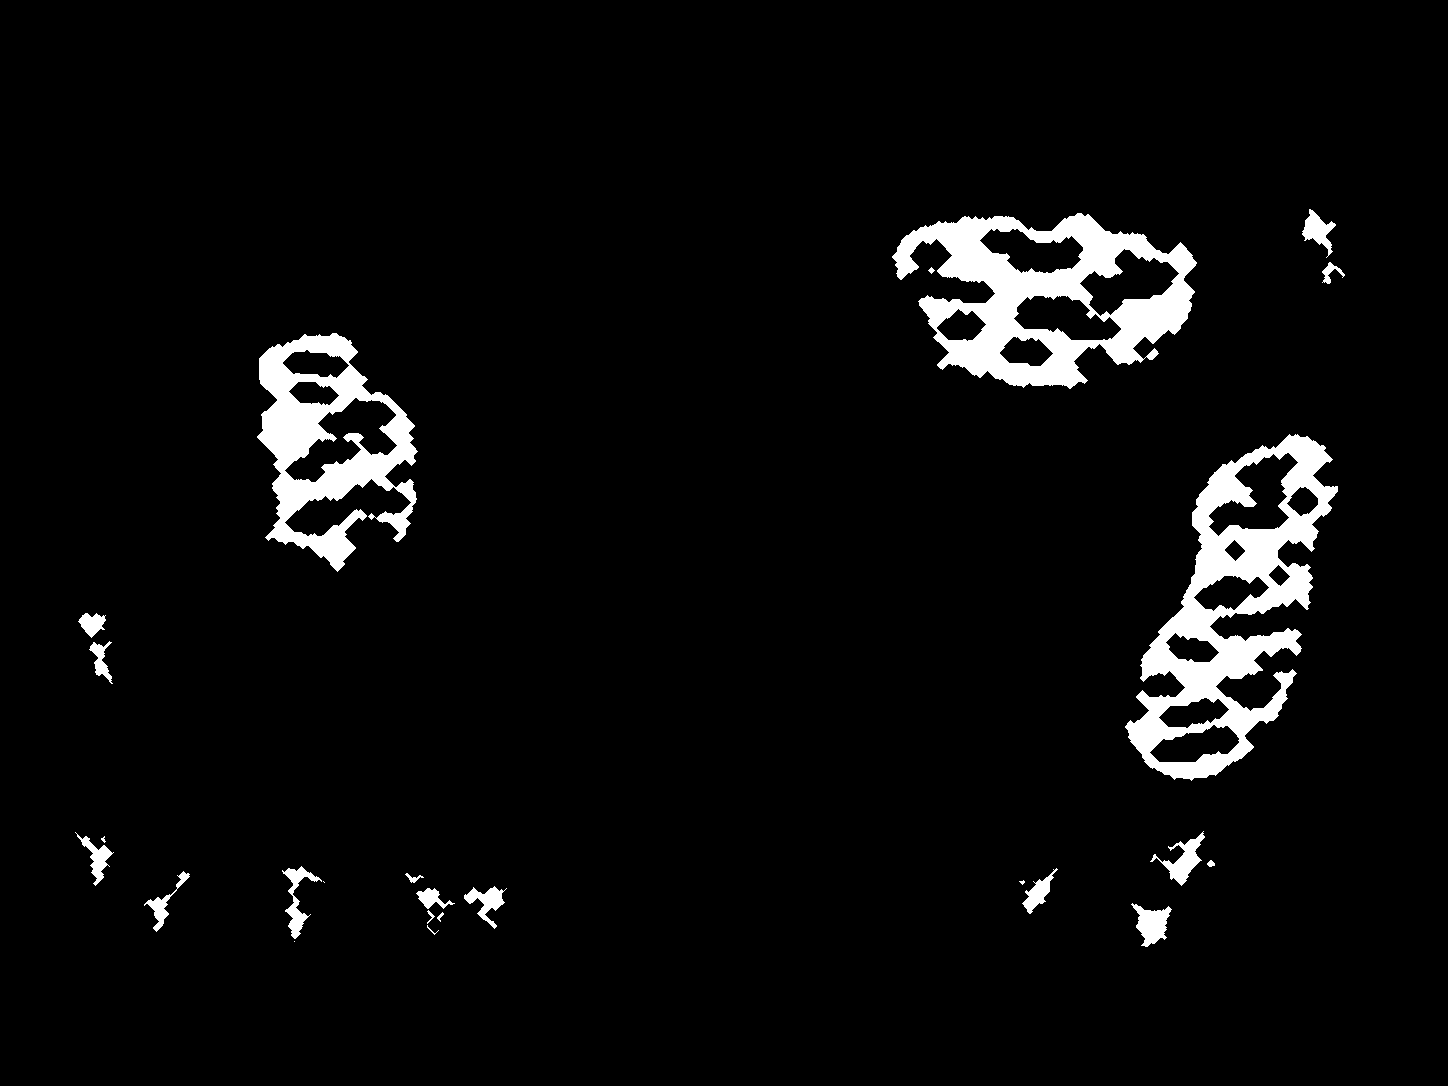
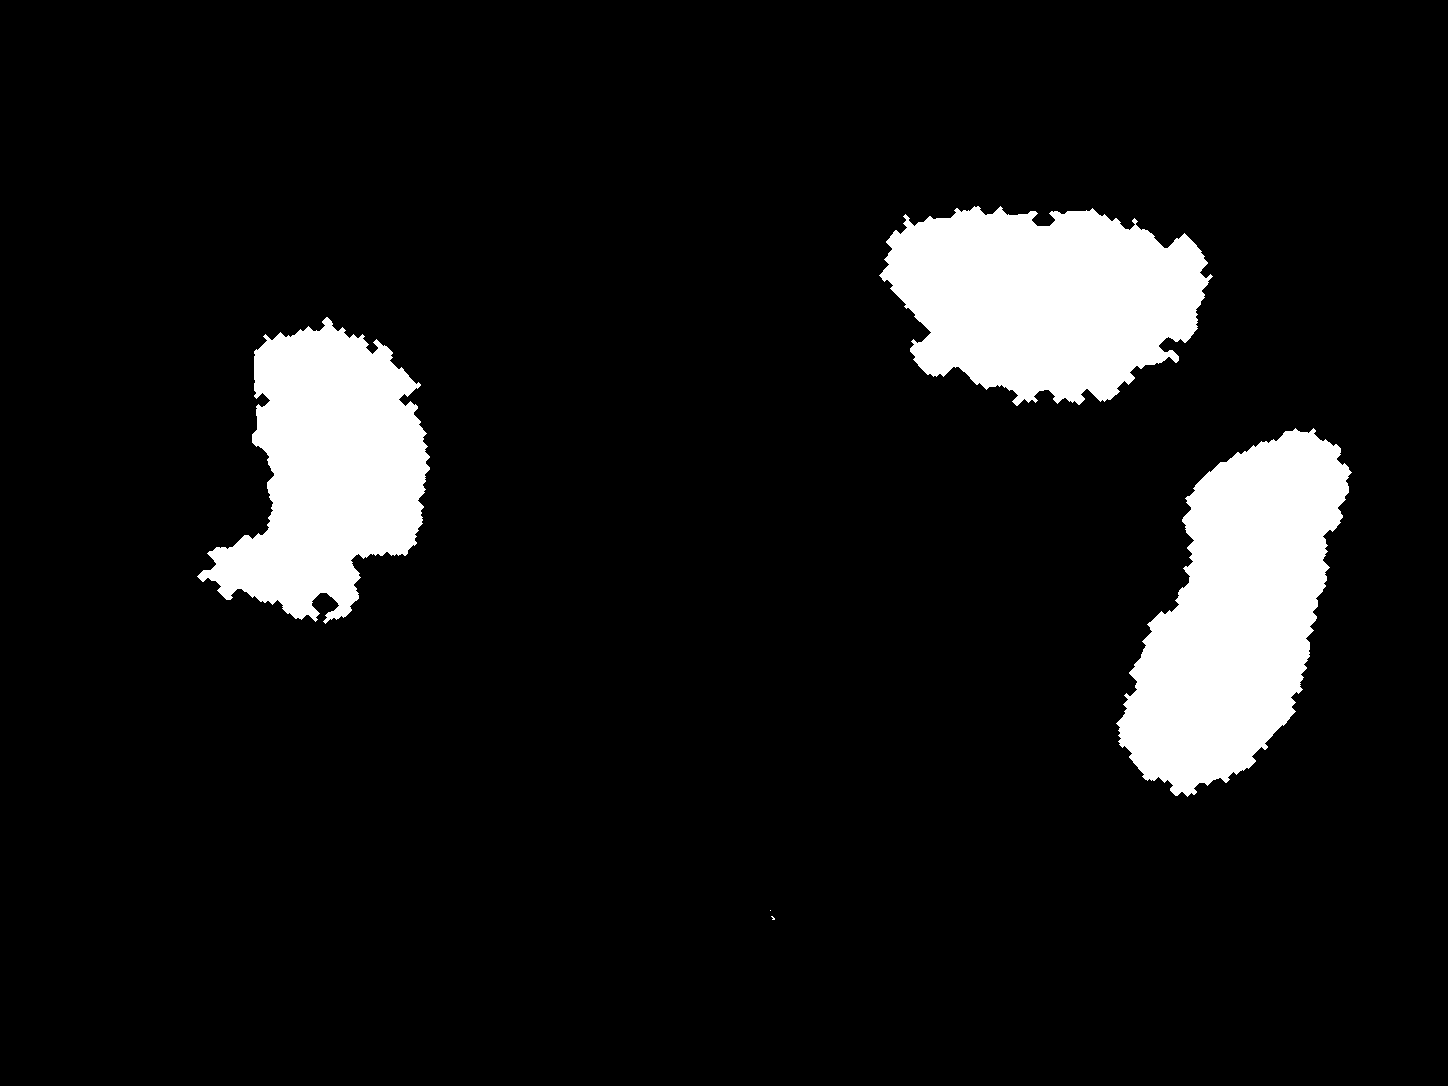
Walkable swamps and flowers, bigger interior with loft access
Collision: detect a "meadow envelope" by filling holes in the largest
grass component, and only keep swamp blobs that lie inside it — pine
trees with cool-green canopies in the forest border are now correctly
excluded. After morphology, swamp pixels are OR'd back into walkable
so the swamp interior is guaranteed collision-free. A final speck-fill
pass turns every non-border-touching blocked component smaller than
1500 px (flowers, dark grass tufts) into walkable.

Water mask reuses the same swamp blob, so the swim animation activates
exactly where the player can walk on water — no path-stone false
positives. The runtime swim check now samples the entire hitbox
against the water mask, not just the center, so stepping a foot into
a swamp is enough.

Indoor: the room is now navigable on three levels — lower floor,
diagonal staircase corridor, and the loft. Walkable area uses a
MultiRectWalk that unions axis-aligned rectangles, with rectangle
overlaps wider than the player's hitbox so transitions between
levels work cleanly.

diff --git a/src/lib/game/Game.ts b/src/lib/game/Game.ts
@@ -32,26 +32,29 @@ type Scene = {
   water?: CollisionMask;
   /** Optional pre-rendered collision overlay (outdoor mask). */
   debugOverlay?: HTMLImageElement;
-  /** Optional walkable rect to outline in debug mode (indoor floor). */
-  debugRect?: { x0: number; y0: number; x1: number; y1: number };
+  /** Optional walkable rects to outline in debug mode (indoor floor). */
+  debugRects?: Rect[];
   triggers: Trigger[];
 };
 
-/** Walkable area defined as a single axis-aligned rectangle. */
-class RectWalk implements WalkChecker {
-  constructor(
-    public x0: number,
-    public y0: number,
-    public x1: number,
-    public y1: number
-  ) {}
+type Rect = { x0: number; y0: number; x1: number; y1: number };
+
+/** Walkable area defined as the union of axis-aligned rectangles. The
+ * player's hitbox must fit entirely inside *at least one* rectangle. */
+class MultiRectWalk implements WalkChecker {
+  constructor(public rects: Rect[]) {}
   isRectWalkable(cx: number, cy: number, halfW: number, halfH: number): boolean {
-    return (
-      cx - halfW >= this.x0 &&
-      cx + halfW <= this.x1 &&
-      cy - halfH >= this.y0 &&
-      cy + halfH <= this.y1
-    );
+    for (const r of this.rects) {
+      if (
+        cx - halfW >= r.x0 &&
+        cx + halfW <= r.x1 &&
+        cy - halfH >= r.y0 &&
+        cy + halfH <= r.y1
+      ) {
+        return true;
+      }
+    }
+    return false;
   }
 }
 
@@ -111,14 +114,24 @@ export class Game {
       ]
     };
 
+    const indoorRects: Rect[] = [
+      // Lower floor — the wooden plank floor across the bottom of the room.
+      { x0: 150, y0: 880, x1: 1280, y1: 1010 },
+      // Staircase — diagonal corridor from the floor up to the loft. Top
+      // and bottom intentionally extend ~30 px past the visible step
+      // boundary so the player's 24-px-tall hitbox has room to traverse
+      // into the floor and loft rectangles below/above.
+      { x0: 800, y0: 300, x1: 990, y1: 930 },
+      // Loft floor — the upper level where the bed and side table are.
+      { x0: 120, y0: 280, x1: 920, y1: 360 },
+    ];
     const indoor: Scene = {
       name: 'indoor',
       background: bgIndoor,
       worldW: bgIndoor.naturalWidth,
       worldH: bgIndoor.naturalHeight,
-      // Walkable strip along the wooden floor between the kitchen plant and the cauldron.
-      walkable: new RectWalk(200, 920, 1000, 1010),
-      debugRect: { x0: 200, y0: 920, x1: 1000, y1: 1010 },
+      walkable: new MultiRectWalk(indoorRects),
+      debugRects: indoorRects,
       triggers: [
         {
           // Exit zone centered on the rug — implied front door of the house.
@@ -207,9 +220,12 @@ export class Game {
     this.player.update(dt, this.input.state, this.currentScene.walkable);
     this.camera.follow(this.player.x, this.player.y);
 
-    // Swim state: true while the player's center is on a pond/swamp pixel.
+    // Swim state: true while any pixel of the player's hitbox overlaps a
+    // pond/swamp pixel — stepping a foot into water is enough.
     const w = this.currentScene.water;
-    this.player.isSwimming = w ? w.isWalkable(this.player.x, this.player.y) : false;
+    this.player.isSwimming = w
+      ? w.intersectsRect(this.player.x, this.player.y, this.player.halfW, this.player.halfH)
+      : false;
 
     this.activeTrigger = this.findTriggerAtPlayer();
     if (this.activeTrigger && this.input.consumeActionPress()) {
@@ -247,15 +263,17 @@ export class Game {
         );
         ctx.globalAlpha = 1;
       }
-      if (scene.debugRect) {
+      if (scene.debugRects) {
         ctx.strokeStyle = '#33ff77';
         ctx.lineWidth = 1;
-        ctx.strokeRect(
-          scene.debugRect.x0 - cam.x,
-          scene.debugRect.y0 - cam.y,
-          scene.debugRect.x1 - scene.debugRect.x0,
-          scene.debugRect.y1 - scene.debugRect.y0
-        );
+        for (const r of scene.debugRects) {
+          ctx.strokeRect(
+            r.x0 - cam.x,
+            r.y0 - cam.y,
+            r.x1 - r.x0,
+            r.y1 - r.y0
+          );
+        }
       }
       // Trigger boxes (yellow).
       ctx.strokeStyle = '#ffd24a';

diff --git a/src/lib/game/CollisionMask.ts b/src/lib/game/CollisionMask.ts
@@ -39,6 +39,35 @@ export class CollisionMask {
   }
 
   /**
+   * Test whether *any* pixel of the given axis-aligned rectangle is set in
+   * the mask (i.e. "walkable" in the mask's internal terminology). Used by
+   * the runtime to ask the water mask "does the player's hitbox overlap the
+   * pond at all?" — even one overlapping pixel triggers swimming.
+   */
+  intersectsRect(cx: number, cy: number, halfW: number, halfH: number): boolean {
+    const step = 4;
+    const x0 = Math.floor(cx - halfW);
+    const x1 = Math.ceil(cx + halfW);
+    const y0 = Math.floor(cy - halfH);
+    const y1 = Math.ceil(cy + halfH);
+    if (
+      this.isWalkable(x0, y0) ||
+      this.isWalkable(x1 - 1, y0) ||
+      this.isWalkable(x0, y1 - 1) ||
+      this.isWalkable(x1 - 1, y1 - 1) ||
+      this.isWalkable((x0 + x1) >> 1, (y0 + y1) >> 1)
+    ) {
+      return true;
+    }
+    for (let y = y0; y < y1; y += step) {
+      for (let x = x0; x < x1; x += step) {
+        if (this.isWalkable(x, y)) return true;
+      }
+    }
+    return false;
+  }
+
+  /**
    * Test an axis-aligned rectangle against the mask. Returns true if every
    * pixel in the rectangle is walkable. We sample on a coarse grid for speed,
    * which is fine because the player's hitbox is small and the mask was

diff --git a/scripts/build_assets.py b/scripts/build_assets.py
@@ -147,8 +147,11 @@ def build_collision_mask():
     is_grass = (
         (g >= 130) & (r >= 90) & (b <= 70) & (g > r) & (g > b + 60)
     )
-    is_pond = (
-        (g >= 115) & (g > r) & (luminance >= 70) & (luminance <= 145)
+    # Strict pond/swamp colour: cool greens that aren't found in path stones.
+    # `g > r + 45` keeps every pond/bush sample (G-R 65-99) and excludes
+    # neutral path stones (G-R 11-36).
+    is_water_seed = (
+        (g >= 115) & (g > r + 45) & (luminance >= 70) & (luminance <= 145)
     )
     is_stone = (
         (luminance >= 95) & (luminance <= 165)
@@ -157,9 +160,50 @@ def build_collision_mask():
         & (g >= 100)
     )
 
-    walkable = is_grass | is_pond | is_stone
+    from scipy.ndimage import (
+        binary_closing,
+        binary_dilation,
+        binary_erosion,
+        binary_fill_holes,
+        binary_opening,
+        label,
+    )
 
-    from scipy.ndimage import binary_closing, binary_opening, binary_erosion, binary_dilation, label
+    # Build a solid swamp/pond blob from the seed pixels: close hairline gaps
+    # along the shoreline so the boundary is continuous, then fill every
+    # interior hole. Without this step the rocks, dark water and highlight
+    # pixels inside a pond fail every walkable detector and the player's
+    # hitbox can't fit anywhere inside the swamp.
+    swamp = binary_closing(is_water_seed, iterations=5)
+    swamp = binary_fill_holes(swamp)
+    swamp = binary_opening(swamp, iterations=2)
+    # Drop tiny stray fragments far from the real swamps (scattered green
+    # specks at the forest edge, etc.).
+    swamp_labels, swamp_n = label(swamp)
+    if swamp_n > 0:
+        ssizes = np.bincount(swamp_labels.ravel())
+        ssizes[0] = 0
+        keep = ssizes >= 1500
+        swamp = keep[swamp_labels]
+
+    # Build the "meadow envelope" — the area fully enclosed by the main
+    # grass region (so it covers grass + any interior obstacles + the real
+    # swamps, but stops at the forest). Then drop every swamp blob that
+    # lies outside the envelope. Without this filter, isolated pine trees
+    # in the forest border (whose dark canopies pass the cool-green
+    # detector) survive into `swamp` and the later "force walkable" step
+    # would carve tree-shaped holes through the forest.
+    grass_labels, grass_n = label(is_grass)
+    if grass_n > 0:
+        gsz = np.bincount(grass_labels.ravel())
+        gsz[0] = 0
+        main_grass = grass_labels == int(np.argmax(gsz))
+    else:
+        main_grass = np.zeros_like(is_grass)
+    meadow_envelope = binary_fill_holes(main_grass)
+    swamp = swamp & meadow_envelope
+
+    walkable = is_grass | swamp | is_stone
 
     walkable = binary_opening(walkable, iterations=2)
     walkable = binary_closing(walkable, iterations=4)
@@ -176,6 +220,35 @@ def build_collision_mask():
 
     walkable = binary_erosion(walkable, iterations=3)
 
+    # The swamp interior must be completely free of collision. Regardless of
+    # what the morphology pipeline did to its boundary, force every pixel
+    # inside the closed swamp blob to be walkable.
+    walkable = walkable | swamp
+
+    # Fill small enclosed "flower" pockets inside the meadow — clusters of
+    # dark grass / flower pixels that fail every walkable detector but are
+    # too small to be real obstacles. Anything that touches the image
+    # border (the forest) or is bigger than `speck_max` (houses, hut, dead
+    # tree, etc.) stays blocked. The real structures are all 2000+ px so
+    # 1500 is a comfortable cutoff.
+    speck_max = 1500
+    hole_labels, n_holes = label(~walkable)
+    if n_holes > 0:
+        hole_sizes = np.bincount(hole_labels.ravel())
+        border_ids: set[int] = set()
+        for edge in (
+            hole_labels[0],
+            hole_labels[-1],
+            hole_labels[:, 0],
+            hole_labels[:, -1],
+        ):
+            border_ids.update(int(v) for v in np.unique(edge))
+        fill = np.zeros_like(walkable)
+        for i in range(1, n_holes + 1):
+            if hole_sizes[i] < speck_max and i not in border_ids:
+                fill[hole_labels == i] = True
+        walkable = walkable | fill
+
     final = np.where(walkable, 255, 0).astype(np.uint8)
     mask_img = Image.fromarray(final, "L")
     mask_path = OUT_DIR / "collision-mask.png"
@@ -183,24 +256,11 @@ def build_collision_mask():
     print(f"Wrote {mask_path}")
 
     # ----- Water mask -----
-    # Pond / swamp pixels that the player can step onto. Clean up small
-    # specks (single dark pixels in grass that triggered is_pond) and shrink
-    # by a couple pixels so the swim animation only kicks in when the player
-    # is clearly in the water, not just brushing the shore.
-    water = is_pond & ~is_grass
-    water = binary_opening(water, iterations=2)
-    water = binary_closing(water, iterations=4)
-    water = water & walkable
-    # Tiny fragments are usually shadows, not real water — drop components
-    # below a minimum size.
-    water_labels, water_n = label(water)
-    if water_n > 0:
-        wsizes = np.bincount(water_labels.ravel())
-        wsizes[0] = 0
-        keep = wsizes >= 800  # px area
-        water = keep[water_labels]
-    # Erode slightly so the swim trigger doesn't activate on every shore pixel.
-    water = binary_erosion(water, iterations=2)
+    # Same swamp blob as the collision side, intersected with walkable. No
+    # erosion: the runtime checks the player's full hitbox against this mask,
+    # so the swim animation already requires the body to overlap water, not
+    # just the center pixel.
+    water = swamp & walkable
     water_final = np.where(water, 255, 0).astype(np.uint8)
     water_img = Image.fromarray(water_final, "L")
     water_path = OUT_DIR / "water-mask.png"